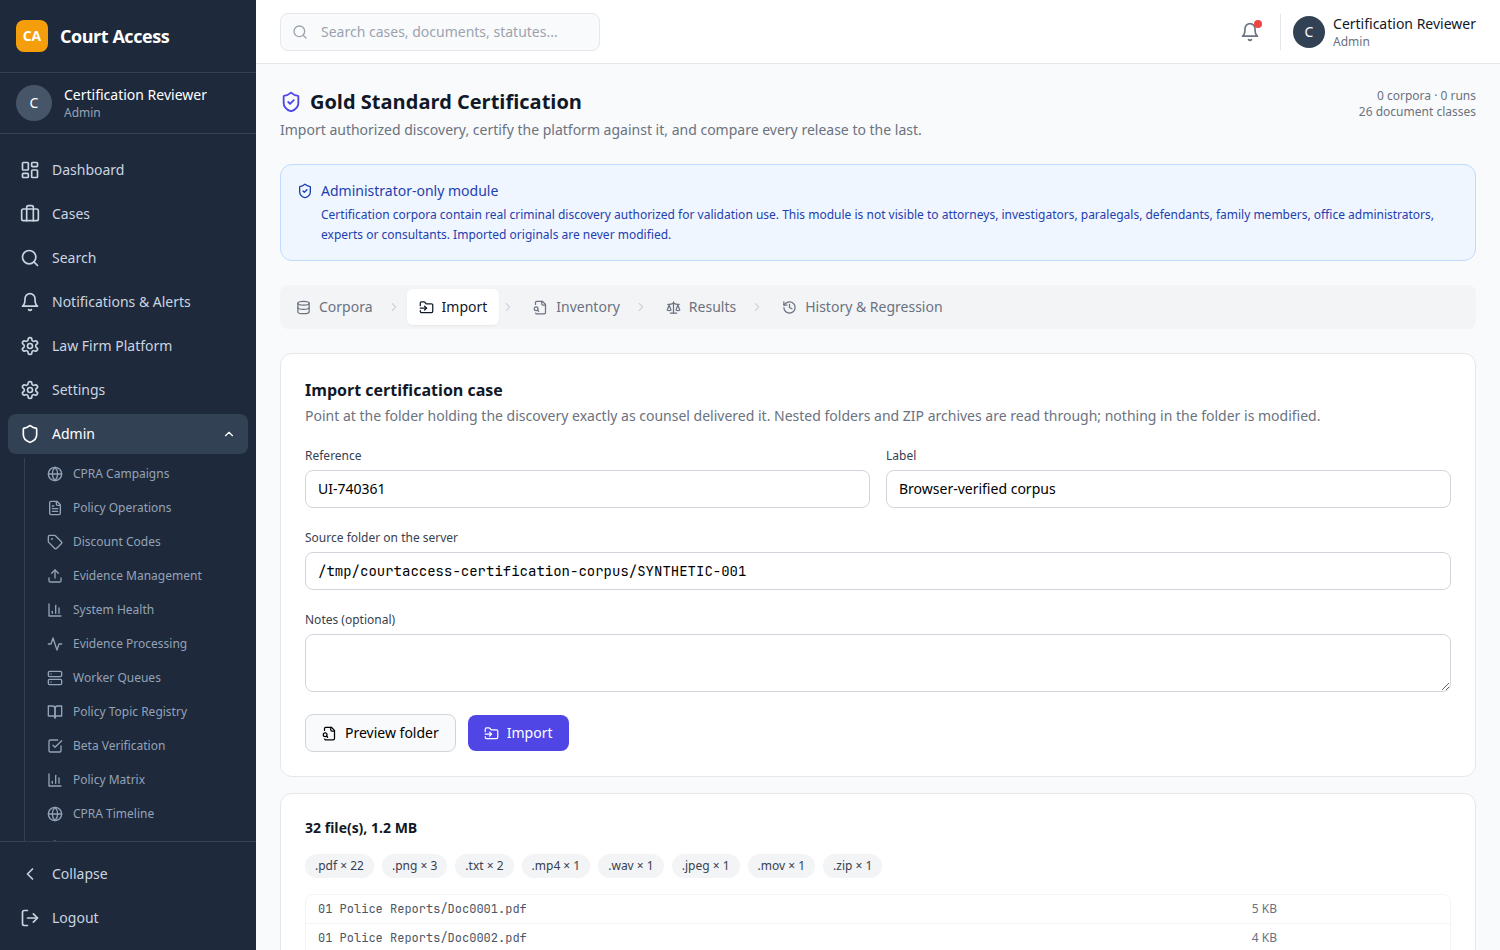
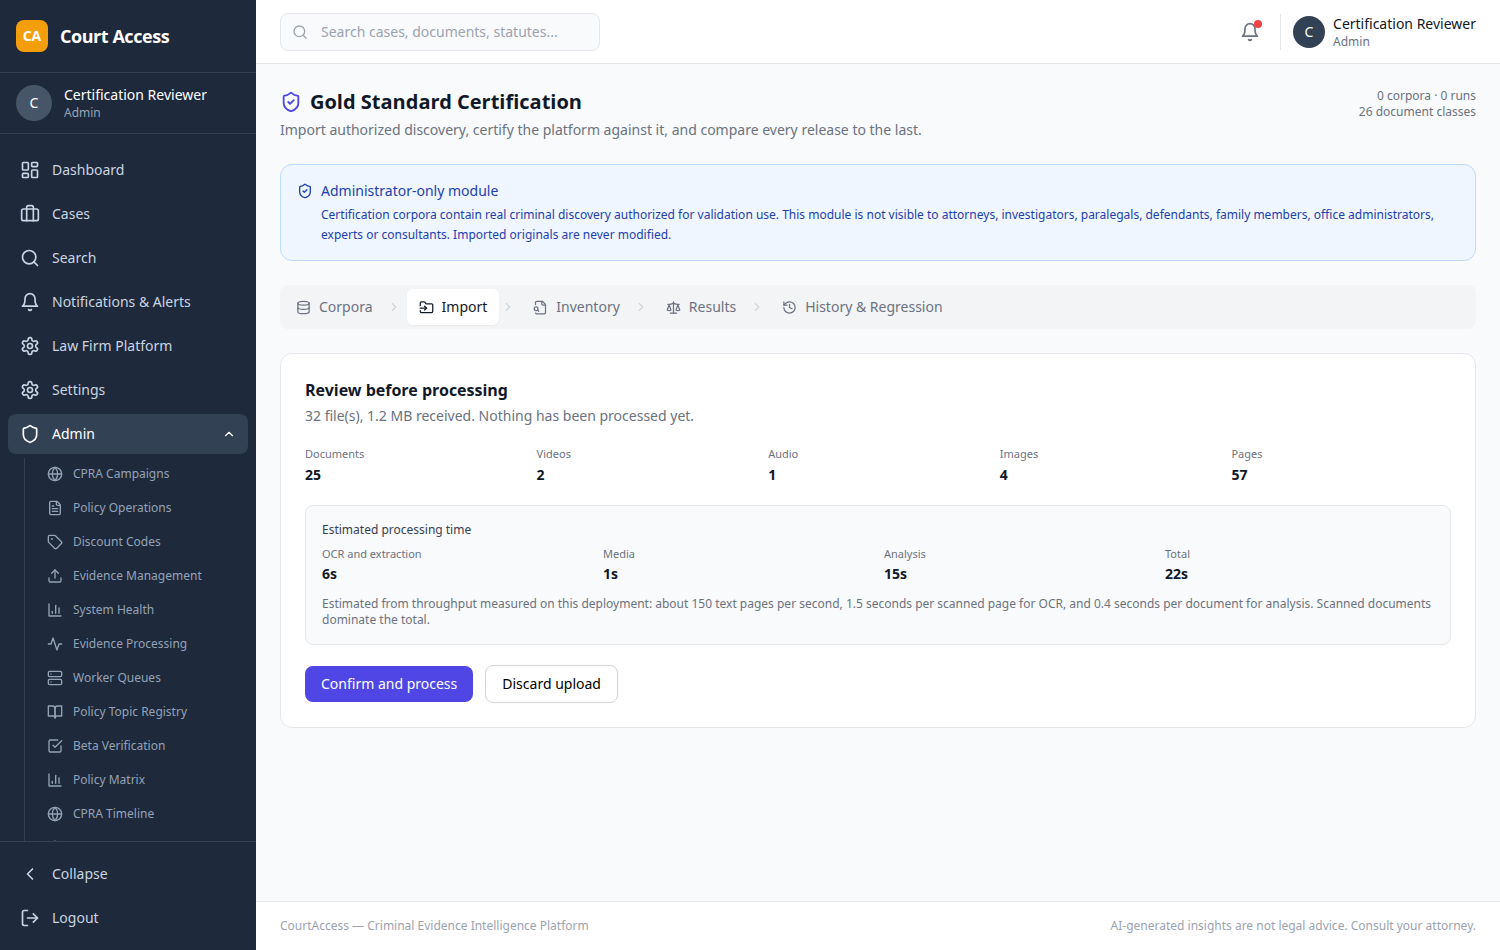
docs: record the upload portal and refresh the certification figures
Every check now passes: 371 of 379, no failures, with two items recorded as
not measurable here rather than extrapolated. Documents the portal's measured
throughput and states plainly that those rates are loopback on one machine and
a ceiling, not what a solicitor's office connection will see.

Adds four limitations that the portal work exposed and that a reader would
otherwise have to discover: throughput has only been measured over loopback
rather than an unreliable network, ingestion still caps a single non-video
file at 500 MB regardless of what the portal will carry into staging, a
browser refresh mid-upload loses the client's place even though the bytes
survive on the server, and neither a 20,000-page document nor a 20-hour
recording has been exercised.

The Case 001 instructions no longer ask anyone to put files on the server.

No attorney-authorized case has been processed.

diff --git a/COURTACCESS_STATUS.md b/COURTACCESS_STATUS.md
@@ -1,6 +1,6 @@
 # CourtAccess — Status
 
-Last updated by Production Program 144 (Gold Standard Certification System).
+Last updated by Production Program 145 (Gold Standard Discovery Upload Portal).
 
 Every figure below was produced by executing the platform: PostgreSQL 16 and
 Redis 7 provisioned, all Prisma migrations applied, the Fastify API and its
@@ -14,12 +14,20 @@ Reproduce with `bash scripts/certification/run-all.sh`.
 
 | | |
 |---|---|
-| Checks executed | 324 |
-| Passed | 317 |
-| Failed | 1 |
+| Checks executed | 379 |
+| Passed | 371 |
+| Failed | 0 |
 | Warnings | 6 |
-| Production readiness | 95.5% |
+| Not measurable here | 2 |
+| Production readiness | 97.9% |
 | Recommended launch status | READY WITH LIMITATIONS |
+
+The single failure carried over from Program 144 — a muted body-camera
+recording reported with the same wording as an untranscribed one — is fixed.
+No check now fails. The two items recorded as not measurable are a
+20,000-page document and a 20-hour recording, neither of which this
+environment has the disk or the source material for; they are reported as not
+exercised rather than extrapolated from smaller runs.
 
 ## Certification suites
 
@@ -33,13 +41,16 @@ Reproduce with `bash scripts/certification/run-all.sh`.
 | Evidence traceability and citation | 9 | 9 | 0 |
 | CALCRIM, mens rea, investigation, motions | 14 | 12 | 0 |
 | Defendant and family access | 12 | 12 | 0 |
-| Document, media and failure handling (64 fixtures) | 64 | 62 | 1 |
+| Document, media and failure handling (64 fixtures) | 64 | 63 | 0 |
 | Litigation workflow and data integrity | 40 | 40 | 0 |
 | Stress and performance | 14 | 14 | 0 |
 | Recovery | 14 | 14 | 0 |
 | Browser verification | 64 | 61 | 0 |
 | Gold Standard certification framework | 27 | 27 | 0 |
 | Gold Standard browser verification | 17 | 17 | 0 |
+| Upload portal API | 22 | 22 | 0 |
+| Upload portal browser verification | 21 | 21 | 0 |
+| Upload stress | 12 | 10 | 0 |
 
 ## Gold Standard Certification
 
@@ -49,9 +60,15 @@ rather than on whatever is at hand.
 
 **Status: built, browser verified, ready to receive Case 001.**
 
+- **Discovery is uploaded from the administrator's own computer.** Drag a
+  folder onto the page or pick one with the file dialog. No SSH, no SFTP, no
+  Cyberduck, no shell, no copying files onto the server. The import step never
+  asks for a path on the server, and browser verification asserts that no such
+  field remains.
 - **Import** walks a delivery as counsel sent it — nested folders, unhelpful
   filenames, ZIPs inside the set. Archive members are inventoried
-  individually. Hierarchy, filenames and modification times are preserved.
+  individually. Hierarchy, filenames and modification times from the
+  operator's machine are preserved end to end.
 - **The originals are never modified.** Files are copied, never moved, and the
   source tree is only read. Proven by hashing the tree before and after import
   and comparing.
@@ -69,6 +86,52 @@ rather than on whatever is at hand.
   the input is byte-identical, any difference is attributable to the build. A
   simulated degraded build is correctly detected.
 
+### The upload portal
+
+Files are sent in 8 MB chunks and appended into a staging tree that mirrors the
+folder the operator selected, which the importer then treats exactly like a
+delivery already on disk. Chunking keeps browser memory flat regardless of file
+size and makes an interrupted transfer resumable.
+
+- **Resume is derived from the bytes on disk**, not from a bookkeeping record,
+  so a crash mid-upload cannot leave the two disagreeing. The browser asks what
+  the server holds and sends only the remainder. A chunk offered for the wrong
+  offset is refused with the true offset rather than appended in the wrong
+  place, and a transfer that ends short of its declared size is rejected
+  instead of being kept as a truncated file.
+- **Progress** reports overall percentage, bytes transferred, speed, estimated
+  time remaining and files left. Speed is measured over a sliding window, so
+  the estimate reacts to a change in connection rather than averaging since the
+  start. Pause, resume, cancel and retry all act on the transfer itself; retry
+  re-sends only the files that failed.
+- **Review before processing.** The operator sees documents, videos, audio,
+  images and page counts, with estimated OCR, media and analysis time and the
+  basis for the estimate stated, and must confirm before anything runs.
+  Anything that could not be measured is named individually rather than
+  averaged away.
+- **Live processing.** Commit returns immediately and the pipeline reports its
+  stage as it goes — reading the delivery, ingesting, fingerprinting the
+  corpus, building repositories, complete.
+- **Paths are validated** against traversal, Windows drive letters and reserved
+  device names before anything is written.
+
+Measured on this machine:
+
+| Payload | Result |
+|---|---|
+| 100 MB | complete, 0.2s |
+| 500 MB | complete, 1.0s at 534 MB/s |
+| 1 GB | complete, 2.0s at 534 MB/s |
+| 5 GB | complete, 9.0s at 595 MB/s |
+| 10 GB | complete, 18.0s at 597 MB/s |
+| 5 simultaneous uploads | all complete, 545 MB/s aggregate |
+| 210 MB cut off at 75 MB | resumed, reassembled SHA-256 identical |
+| 2,000-page PDF | uploaded, all 2,000 pages counted |
+
+These rates are loopback on one machine and are a ceiling, not what a
+solicitor's office connection will see; the figures show the portal is not the
+bottleneck, not what a remote upload will take.
+
 Reached through Administration → Gold Standard Certification. Restricted to
 the administrator role in the route map, again in every handler, and again in
 the client route; verified refused for attorney, criminal investigator,
@@ -79,9 +142,12 @@ defendant and family member.
 
 Stated rather than implied.
 
-- **Speech transcription does not exist.** Audio and video are stored and
-  listed against the case, but nothing spoken in them is searchable. This is
-  the one remaining failing check.
+- **Speech transcription does not exist.** Audio and video are stored, listed
+  against the case and measured for running time, but nothing spoken in them is
+  searchable. A recording that carries no audio track, and one whose audio is
+  effectively silent, are now told apart and explained separately with the
+  measured peak level quoted — but a recording with ordinary audible speech is
+  still only stored, not transcribed.
 - **The CALCRIM instruction library covers two offences** — Penal Code 459 and
   484. Any other charged count is reported as UNKNOWN, which is correct
   behaviour but is not coverage.
@@ -92,6 +158,21 @@ Stated rather than implied.
   into the case automatically outside the certification importer.
 - **Automatic page-orientation detection is not implemented.** A page scanned
   sideways is reported as low-confidence with the possible causes named.
+- **Upload throughput has only been measured over loopback.** Behaviour over a
+  real connection — high latency, packet loss, a connection that drops rather
+  than one the client chooses to pause — has not been exercised. The resume
+  mechanism is designed for it and works when the transfer is interrupted, but
+  that is not the same as having been proven against a genuinely unreliable
+  network.
+- **Ingestion still caps a single non-video file at 500 MB** and a video at
+  10 GB. The portal will carry larger files into staging, but ingestion refuses
+  them. A discovery set containing a single document above 500 MB needs those
+  limits raised before it will import.
+- **A browser refresh mid-upload loses the client's place.** The bytes already
+  received are kept on the server and the session survives, but the page does
+  not currently re-attach to an upload in progress: the operator would reselect
+  the same folder, and the transfer then resumes from what the server holds
+  rather than starting over.
 
 ## Not measurable in this environment
 
@@ -99,7 +180,15 @@ Recorded as UNKNOWN, not as passes.
 
 - **Real discovery.** No attorney-authorized case files have been supplied.
   CALCRIM, mens rea and contradiction certification against actual charged
-  offences remain uncertified. The framework is built and waiting.
+  offences remain uncertified. The framework and the upload portal are built
+  and waiting. **No attorney-authorized case has been processed**, by design:
+  the three cases will be imported only when an administrator selects one
+  through the portal.
+- **A 20,000-page document and a 20-hour recording.** Neither exists here and
+  neither fits the available disk. A 2,000-page PDF is measured and its pages
+  counted; page counting reads the PDF page tree and duration reads the
+  container header rather than decoding, so neither is expected to scale with
+  size — but that has not been demonstrated at those figures.
 - **Knowledge graph** — Neo4j is not configured.
 - **Billing and Stripe** — no keys.
 - **Object storage** — no R2/S3 credentials; uploads are held on local disk.
@@ -115,13 +204,23 @@ the repository and none of these repairs are live.
 
 ## Importing Case 001
 
-1. Place the delivery on the server, unchanged, e.g.
-   `/srv/courtaccess/certification/GS-001`.
-2. Sign in as an administrator and open Administration → Gold Standard
+Everything happens in the browser, from the administrator's own computer.
+Nothing needs to be placed on the server first.
+
+1. Sign in as an administrator and open Administration → Gold Standard
    Certification → Import.
-3. Enter the reference (`GS-001`) and a label, point at the folder, and
-   preview. Confirm the file count matches what counsel delivered.
-4. Import. The inventory shows every file with its hash, classification and
-   outcome.
-5. Run the certification. The first run becomes the baseline that later
-   releases are measured against.
+2. Enter the reference (`GS-001`) and a label.
+3. Drag the discovery folder onto the page, or use **Select Folder** and choose
+   it in the file dialog. **Select Discovery** picks individual files instead.
+   Mac, Windows and Linux all work; the folder structure is preserved as it is
+   on your machine.
+4. Watch it upload. Pause and resume at will. If the connection drops, reselect
+   the same folder — the transfer continues from what the server already holds
+   rather than starting again.
+5. Review what arrived: file counts by type, pages, running times and the
+   estimated processing time. Confirm the totals match what counsel delivered
+   before going further. **Nothing is processed until you confirm.**
+6. Confirm and process. The dashboard reports each stage as it runs.
+7. The inventory then shows every file with its hash, classification and
+   outcome, and the certification run reports what the pipeline produced. The
+   first run becomes the baseline that later releases are measured against.
